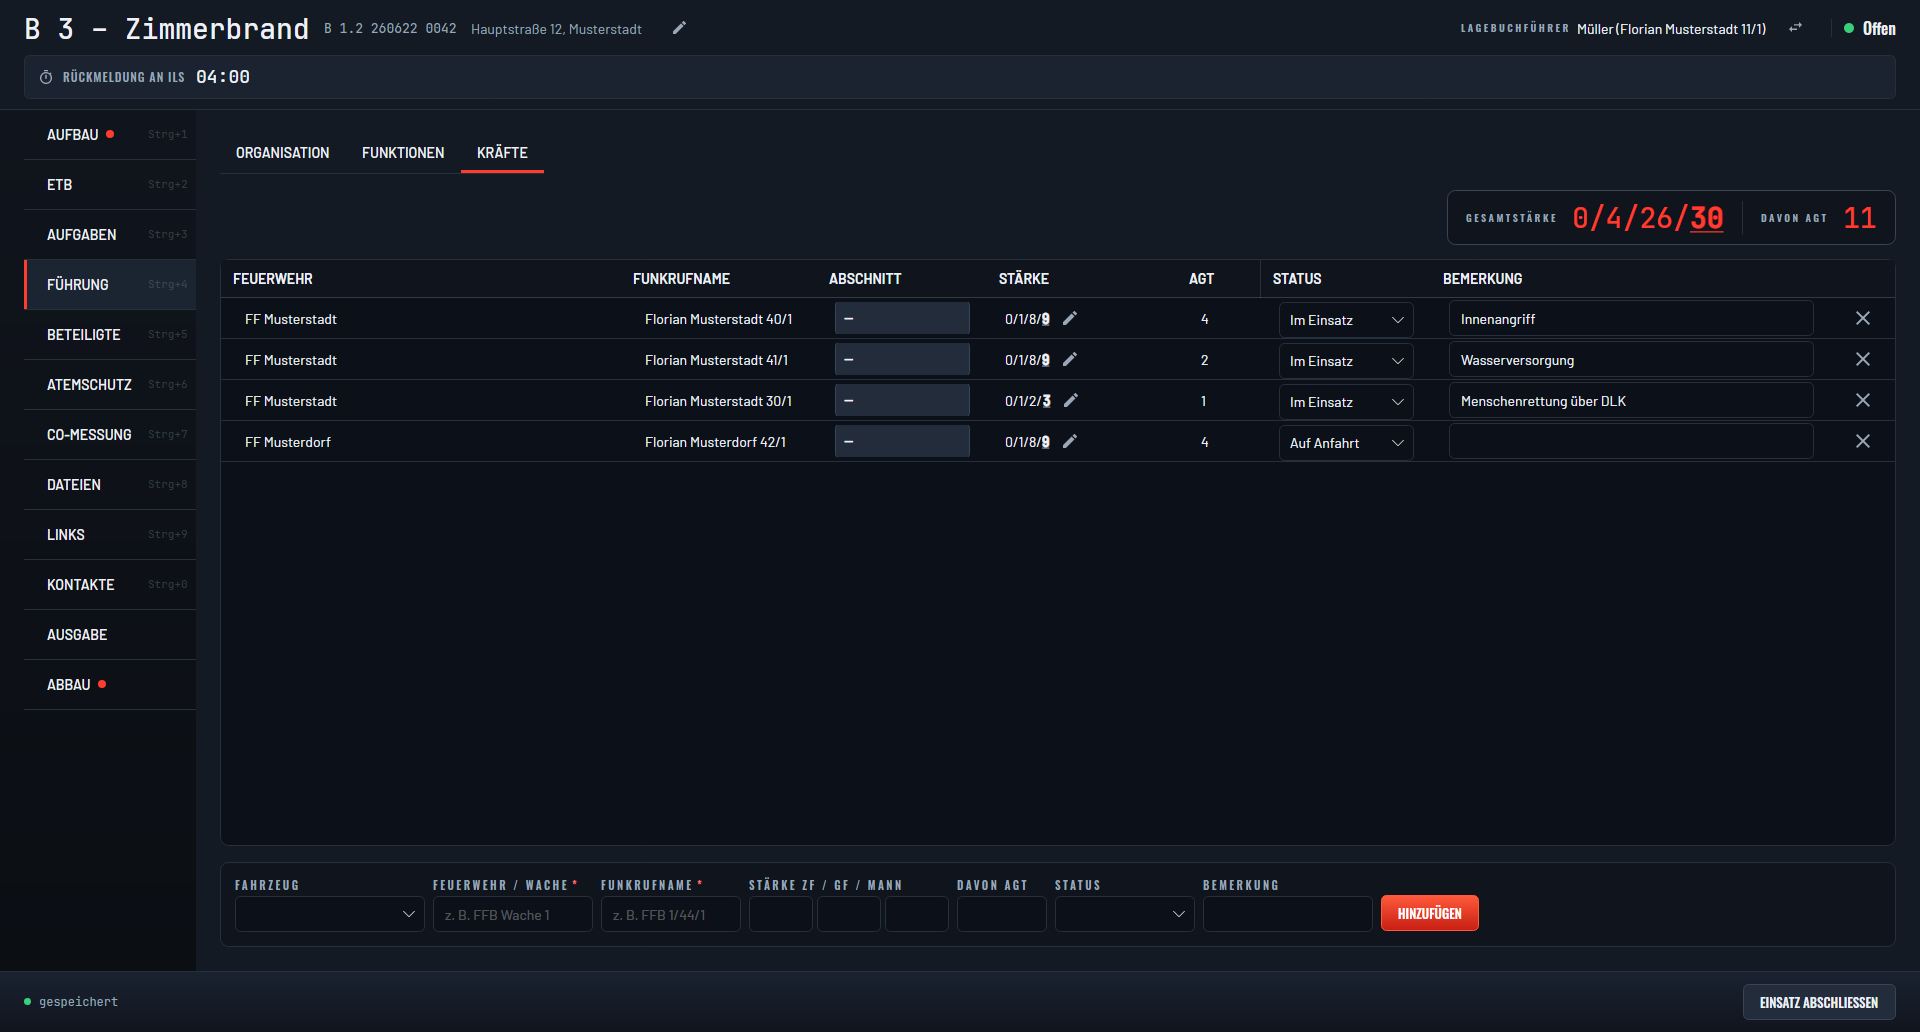
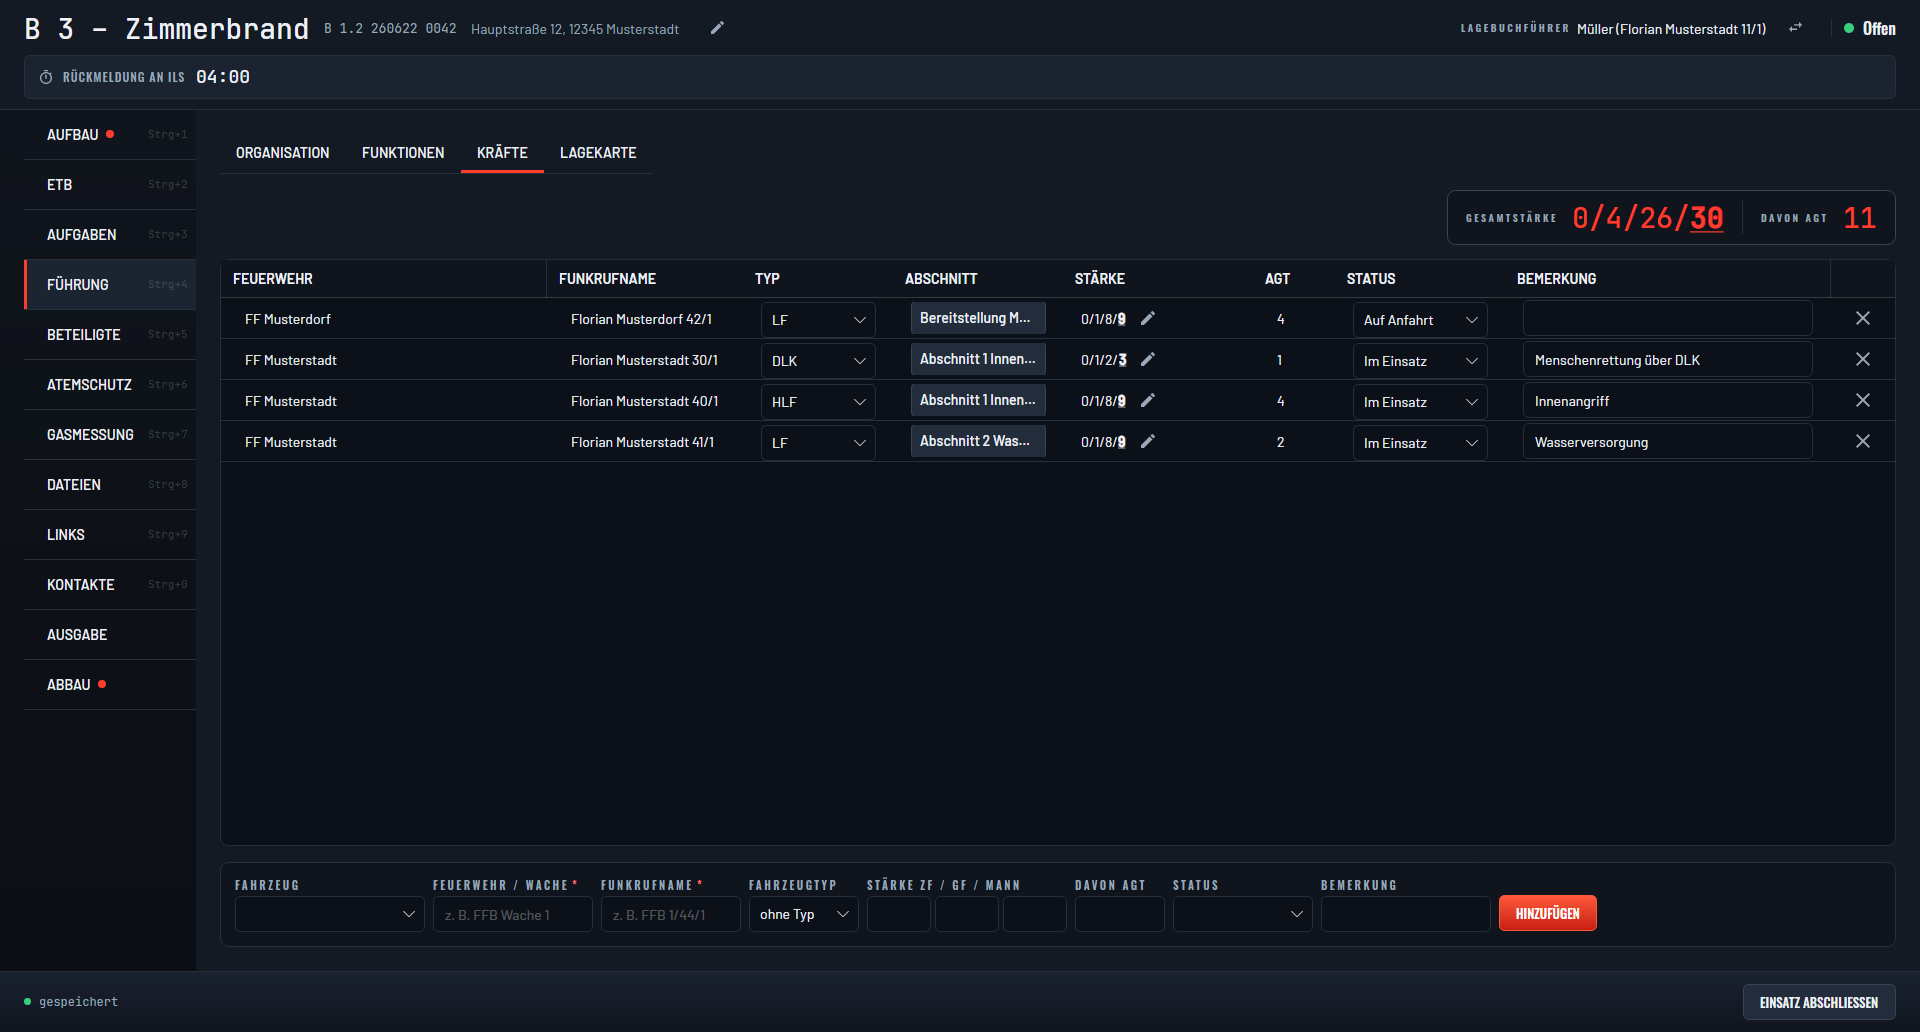
docs: render Führung, Lagekarte, Lagemeldung and Ausgabe for the screenshots
The README screenshots and the website's Rundgang still showed the
modules of 0.8.0. The demo walk-through now also captures the views
0.10.0 adds:

- fuehrung.png: FÜHRUNG → ORGANISATION with the Einsatzleitung, two
  Abschnitte, a Bereitstellung, the Rettungsdienst, Funkgruppen and the
  units placed in them
- lagekarte.png: FÜHRUNG → LAGEKARTE on the made-up Kartenpaket the
  Lagekarte tests already use, with the Einsatzstelle, three taktische
  Zeichen and the hydrants, so no real OSM data ends up in a screenshot
- lagemeldung.png: ETB → LAGEMELDUNG with a draft and the
  Buchstabier-Helfer
- ausgabe.png: three Geräte handed out, one of them returned

The existing frames pick up what changed since: the address is split
into Straße, Hausnummer, PLZ and Ort, the units carry a Fahrzeugtyp and
sit in an Abschnitt, the EL holds the Leiter slot, and Maria Musterfrau
has an Aufenthaltsort. The demo GIF gets the four new frames and calls
the CO-Messprotokoll the Gasmessprotokoll; the README alt text follows.

WorkspaceRenderHelper.SelectTab now also finds LAGEKARTE under FÜHRUNG.

diff --git a/tests/LageBuch.Acceptance.Tests/DemoFlowRenderTests.cs b/tests/LageBuch.Acceptance.Tests/DemoFlowRenderTests.cs
@@ -5,10 +5,12 @@ using Avalonia.Threading;
 using LageBuch.App.Shared.Views;
 using LageBuch.AppLogic;
 using LageBuch.AppLogic.Services;
+using LageBuch.AppLogic.Services.Map;
 using LageBuch.AppLogic.ViewModels;
 using LageBuch.Domain;
 using LageBuch.Domain.CoMeasurement;
 using LageBuch.Domain.Etb;
+using LageBuch.Domain.Leadership;
 using LageBuch.Domain.Tasks;
 using LageBuch.Domain.ValueObjects;
 using LageBuch.Persistence.MasterData;
@@ -22,12 +24,22 @@ namespace LageBuch.Acceptance.Tests;
 // It doubles as an end-to-end smoke test of the workspace: every module is populated through the
 // session API and must render the state it was given, and both overlay dialogs must open and
 // close from the workspace commands.
-public class DemoFlowRenderTests
+public sealed class DemoFlowRenderTests : IDisposable
 {
     private const string Elw = "Florian Musterstadt 11/1";
     private const string Lf = "Florian Musterstadt 40/1";
     private const string Lf2 = "Florian Musterstadt 41/1";
     private const string Dlk = "Florian Musterstadt 30/1";
+    private const string Musterdorf = "Florian Musterdorf 42/1";
+
+    private readonly string _dir = Directory.CreateTempSubdirectory("lagebuch-demo-").FullName;
+    private readonly HttpClient _http = new();
+
+    public void Dispose()
+    {
+        _http.Dispose();
+        Directory.Delete(_dir, recursive: true);
+    }
 
     private sealed class DemoRecent : IRecentFilesStore
     {
@@ -117,6 +129,19 @@ public class DemoFlowRenderTests
     private static void SelectTab(Window window, string header) =>
         WorkspaceRenderHelper.SelectTab(window, header);
 
+    private static void SelectModuleTab(Window window, string railHeader, string tabHeader) =>
+        WorkspaceRenderHelper.SelectModuleTab(window, railHeader, tabHeader);
+
+    private static Guid AddNode(
+        LocalIncidentSession session, CommandNodeKind kind, string name, string? auftrag, Funkgruppen? funkgruppen = null)
+    {
+        session.AddCommandNode(kind, name, auftrag: auftrag, funkgruppen: funkgruppen);
+        return session.Incident.CommandNodes[^1].Id;
+    }
+
+    private static Guid Unit(LocalIncidentSession session, string callSign) =>
+        session.Incident.Forces.Single(f => f.CallSign == callSign).Id;
+
     [AvaloniaFact]
     public void Home_screen_lists_recent_incidents()
     {
@@ -168,8 +193,13 @@ public class DemoFlowRenderTests
                 t.Id, t.Title, t.Items.Select(i => (i.Text, i.IsMandatory)).ToList())).ToList(),
             new IncidentNumber("B 1.2 260622 0042"),
             keyword: "B 3 – Zimmerbrand");
-        session.SetAddress("Hauptstraße 12", "Musterstadt");
+        session.SetAddress("Hauptstraße", null, "12", "12345", "Musterstadt");
         var ticker = new ManualTicker();
+
+        // The made-up Kartenpaket the Lagekarte tests use, so the Lagekarte frame shows a map
+        // without any real OSM data in it.
+        var regions = Path.Join(_dir, "regions");
+        FictionalRegionPack.Install(regions);
         var vm = new IncidentWorkspaceViewModel(
             session,
             clock,
@@ -177,7 +207,8 @@ public class DemoFlowRenderTests
             md,
             new FakeDialogs(),
             new NoopAlarmService(),
-            new NoopIncidentHostController());
+            new NoopIncidentHostController(),
+            mapPacks: new RegionPackLibrary(_http, regions));
         var window = new Window { Content = new IncidentWorkspaceView { DataContext = vm }, Width = RenderWidth, Height = RenderHeight };
         window.Show();
         Dispatcher.UIThread.RunJobs();
@@ -204,18 +235,18 @@ public class DemoFlowRenderTests
         // 3) ETB: the first minutes of the incident.
         session.AddJournalEntry(EtbDirection.Incoming, "Alarmierung B 3 Zimmerbrand, Hauptstraße 12, Rauch aus dem 2. OG, Personen vermutlich noch im Gebäude", "ILS", Elw);
         clock.Now = clock.Now.AddMinutes(4);
-        session.AssignRole("EL", "Mustermann, Max", callSign: Elw, from: clock.Now, phone: AnonymizedExampleData.PhoneNumber);
+        session.AssignRole("EL", "Mustermann, Max", callSign: Elw, from: clock.Now, phone: AnonymizedExampleData.PhoneNumber, slot: RoleSlot.Leiter);
         session.AssignRole("AS-Überwachung", "Wagner, Tobias", from: clock.Now);
         clock.Now = clock.Now.AddMinutes(2);
-        session.AddForceUnit("FF Musterstadt", 9, Lf, "Im Einsatz", "Innenangriff", scbaCount: 4, officerCount: 1);
-        session.AddForceUnit("FF Musterstadt", 9, Lf2, "Im Einsatz", "Wasserversorgung", scbaCount: 2, officerCount: 1);
-        session.AddForceUnit("FF Musterstadt", 3, Dlk, "Im Einsatz", "Menschenrettung über DLK", scbaCount: 1, officerCount: 1);
+        session.AddForceUnit("FF Musterstadt", 9, Lf, "Im Einsatz", "Innenangriff", scbaCount: 4, officerCount: 1, vehicleType: "HLF");
+        session.AddForceUnit("FF Musterstadt", 9, Lf2, "Im Einsatz", "Wasserversorgung", scbaCount: 2, officerCount: 1, vehicleType: "LF");
+        session.AddForceUnit("FF Musterstadt", 3, Dlk, "Im Einsatz", "Menschenrettung über DLK", scbaCount: 1, officerCount: 1, vehicleType: "DLK");
         session.AddJournalEntry(EtbDirection.Outgoing, "Lagemeldung: Zimmerbrand im 2. OG, Menschenrettung über DLK eingeleitet, Innenangriff mit 1 Trupp", Elw, "ILS");
         clock.Now = clock.Now.AddMinutes(3);
         session.AddJournalEntry(EtbDirection.Incoming, "Person aus dem 2. OG über DLK gerettet, Übergabe an RD", Dlk, Elw);
         session.AddJournalEntry(EtbDirection.Outgoing, "Nachforderung: 1 LF zur Ablösung, RD zur Absicherung", Elw, "ILS");
         clock.Now = clock.Now.AddMinutes(2);
-        session.AddForceUnit("FF Musterdorf", 9, "Florian Musterdorf 42/1", "Auf Anfahrt", null, scbaCount: 4, officerCount: 1);
+        session.AddForceUnit("FF Musterdorf", 9, Musterdorf, "Auf Anfahrt", null, scbaCount: 4, officerCount: 1, vehicleType: "LF");
         session.AddJournalEntry(EtbDirection.Incoming, "Florian Musterdorf 42/1 alarmiert, ETA 8 Minuten", "ILS", Elw);
         ticker.Pulse();
 
@@ -223,7 +254,52 @@ public class DemoFlowRenderTests
         Assert.True(vm.Etb.Entries.Count(e => e.DirectionValue != EtbDirection.System) >= 5);
         Capture(window, "etb.png");
 
-        // 4) Kräfte: four units, one still on its way.
+        // 3b) Lagemeldung: the next report to the ILS, drafted from the Einsatz, beside the
+        //     Buchstabier-Helfer. Back to the journal afterwards, so the PDF frame shows the ETB.
+        session.AddSituationReport(
+            Elw,
+            "Hauptstraße 12",
+            "Zimmerbrand 2. OG, eine Person über DLK gerettet und an den RD übergeben",
+            "Innenangriff mit 1 Trupp unter PA, Wasserversorgung aufgebaut",
+            "FF Musterstadt, FF Musterdorf auf Anfahrt",
+            "1 RTW zur Absicherung");
+        SelectModuleTab(window, "ETB", "LAGEMELDUNG");
+        vm.SituationReports.SelectedReport = vm.SituationReports.Reports.Single();
+        vm.SituationReports.Helper.Input = "Hauptstraße";
+        Dispatcher.UIThread.RunJobs();
+        Assert.Single(session.Incident.SituationReports);
+        Capture(window, "lagemeldung.png");
+        SelectModuleTab(window, "ETB", "EINSATZTAGEBUCH");
+
+        // 4) Führung → Organisation: the Führungsorganisation as the A3 sheet draws it, with the
+        //    Einsatzleitung, two Abschnitte, a Bereitstellung, the Rettungsdienst and the units.
+        session.UpdateLeadershipPost(
+            "Hauptstraße 10", Elw, null, new Funkgruppen(["FW_MUSTER 1000"], ["301_F"]), Elw);
+        session.SetDispatchChannel("TMO FW_MUSTER");
+        var innen = AddNode(
+            session,
+            CommandNodeKind.Abschnitt,
+            "Abschnitt 1 Innenangriff",
+            "Brandbekämpfung 2. OG, Menschenrettung",
+            new Funkgruppen(["FW_MUSTER 1000"], ["301_F"]));
+        var wasser = AddNode(
+            session,
+            CommandNodeKind.Abschnitt,
+            "Abschnitt 2 Wasserversorgung",
+            "Wasserversorgung vom Hydranten Hauptstraße",
+            new Funkgruppen(["FW_MUSTER 1000"], null));
+        var bereitstellung = AddNode(session, CommandNodeKind.Bereitstellung, "Bereitstellung Marktplatz", "Nachrückende Kräfte sammeln");
+        AddNode(session, CommandNodeKind.Partner, "Rettungsdienst", null, new Funkgruppen(["RD_MUSTER 1001"], null));
+        session.MoveForceUnit(Unit(session, Lf), innen);
+        session.MoveForceUnit(Unit(session, Dlk), innen);
+        session.MoveForceUnit(Unit(session, Lf2), wasser);
+        session.MoveForceUnit(Unit(session, Musterdorf), bereitstellung);
+        session.AssignRole("EAL", "Schmidt, Anna", callSign: Lf, from: clock.Now, nodeId: innen, slot: RoleSlot.Leiter);
+        session.AssignRole("EAL", "Becker, Jonas", callSign: Lf2, from: clock.Now, nodeId: wasser, slot: RoleSlot.Leiter);
+        SelectTab(window, "ORGANISATION");
+        Capture(window, "fuehrung.png");
+
+        // 4b) Kräfte: four units, one still on its way, each in its Abschnitt.
         SelectTab(window, "KRÄFTE");
         Assert.Equal(4, vm.Forces.Forces.Count);
         Capture(window, "kraefte.png");
@@ -235,8 +311,27 @@ public class DemoFlowRenderTests
 
         // 6) Funktionen.
         SelectTab(window, "FUNKTIONEN");
-        Assert.Equal(2, vm.Roles.Roles.Count);
+        Assert.Equal(4, vm.Roles.Roles.Count);
         Capture(window, "funktionen.png");
+
+        // 6b) Lagekarte: the Einsatzstelle on the made-up Kartenpaket's Marktplatz, the units as
+        //     taktische Zeichen around it, and the hydrants close by.
+        session.SetIncidentLocation(FictionalRegionPack.Musterstrasse1);
+        session.PlaceForceUnit(Unit(session, Lf), new GeoPoint(48.1789, 11.2549));
+        session.PlaceForceUnit(Unit(session, Dlk), new GeoPoint(48.1781, 11.2549));
+        session.PlaceForceUnit(Unit(session, Lf2), new GeoPoint(48.1778, 11.2531));
+        SelectTab(window, "LAGEKARTE");
+        Assert.True(SpinWait.SpinUntil(
+            () =>
+            {
+                Dispatcher.UIThread.RunJobs();
+                return vm.Lagekarte.WaterPoints is not null || vm.Lagekarte.WaterPointsError is not null;
+            },
+            TimeSpan.FromSeconds(10)));
+        vm.Lagekarte.Map.ChangeViewCommand.Execute(new MapViewChange(FictionalRegionPack.Musterstrasse1, 17));
+        Dispatcher.UIThread.RunJobs();
+        Assert.NotNull(vm.Lagekarte.WaterPoints);
+        Capture(window, "lagekarte.png");
 
         // 7) Atemschutz: Trupp 1 started at t0 and past its 30 minutes (Rückzugsalarm), Trupp 2
         //    started 20 minutes later and still counting down, Trupp 3 waiting. Driven through the
@@ -319,9 +414,19 @@ public class DemoFlowRenderTests
         session.AddInvolvedParty("Musterfrau, Maria", "01 71 / 8 76 54 32", "Bewohnerin 2. OG, über DLK gerettet, Übergabe an RD");
         session.AddInvolvedParty("Mustermann, Otto", "01 71 / 9 87 65 43", "Nachbar, hat die Feuerwehr alarmiert");
         session.AddInvolvedParty("POK Beispiel", null, "Polizei vor Ort, Streife 12/3");
+        session.SetInvolvedPartyWhereabouts(session.Incident.InvolvedParties[0].Id, "RTW Rotkreuz Musterstadt 71/1");
         SelectTab(window, "BETEILIGTE");
         Assert.Equal(3, session.Incident.InvolvedParties.Count);
         Capture(window, "beteiligte.png");
+
+        // 10b) Ausgabe: what was handed out at the Einsatzstelle, and to whom; one Gerät is back.
+        session.IssueItem("Mobilteil 1", "POK Beispiel", null, "Polizei, Streife 12/3", null);
+        session.IssueItem("Weste Presse", "Mustermann, Paul", "01 71 / 2 34 56 78", "Musterstädter Tagblatt", null);
+        session.IssueItem("Fernglas", "Schmidt, Anna", null, "EAL Abschnitt 1", "Dachbeobachtung");
+        session.ReturnIssuedItem(session.Incident.IssuedItems[2].Id);
+        SelectTab(window, "AUSGABE");
+        Assert.Equal(3, session.Incident.IssuedItems.Count);
+        Capture(window, "ausgabe.png");
 
         // 11) PDF export: the section picker that precedes the report.
         SelectTab(window, "ETB");

diff --git a/tests/LageBuch.Acceptance.Tests/WorkspaceRenderHelper.cs b/tests/LageBuch.Acceptance.Tests/WorkspaceRenderHelper.cs
@@ -197,7 +197,7 @@ internal static class WorkspaceRenderHelper
         SelectedTabContent(window).GetVisualDescendants().OfType<TabControl>()
             .Single(t => t.Classes.Contains("module-tabs"));
 
-    private static readonly string[] FuehrungTabs = ["ORGANISATION", "FUNKTIONEN", "KRÄFTE"];
+    private static readonly string[] FuehrungTabs = ["ORGANISATION", "FUNKTIONEN", "KRÄFTE", "LAGEKARTE"];
 
     /// <summary>The tab strip inside the FÜHRUNG rail entry; FÜHRUNG must be the open entry.</summary>
     public static TabControl LeadershipTabStrip(Window window) =>

diff --git a/README.md b/README.md
@@ -17,7 +17,7 @@
 </p>
 
 <p align="center">
-  <img src="docs/demo/einsatz-flow.gif" width="960" alt="Ein Einsatz in Lagebuch: Einsatzdaten, ETB, Kräfte, Atemschutz, Aufgaben, CO-Messung, PDF" />
+  <img src="docs/demo/einsatz-flow.gif" width="960" alt="Ein Einsatz in Lagebuch: Einsatzdaten, ETB, Lagemeldung, Führung, Lagekarte, Kräfte, Atemschutz, Aufgaben, Gasmessung, Beteiligte, Ausgabe, PDF" />
 </p>
 
 Lagebuch ist das digitale Einsatztagebuch für den Einsatzleitwagen: eine
